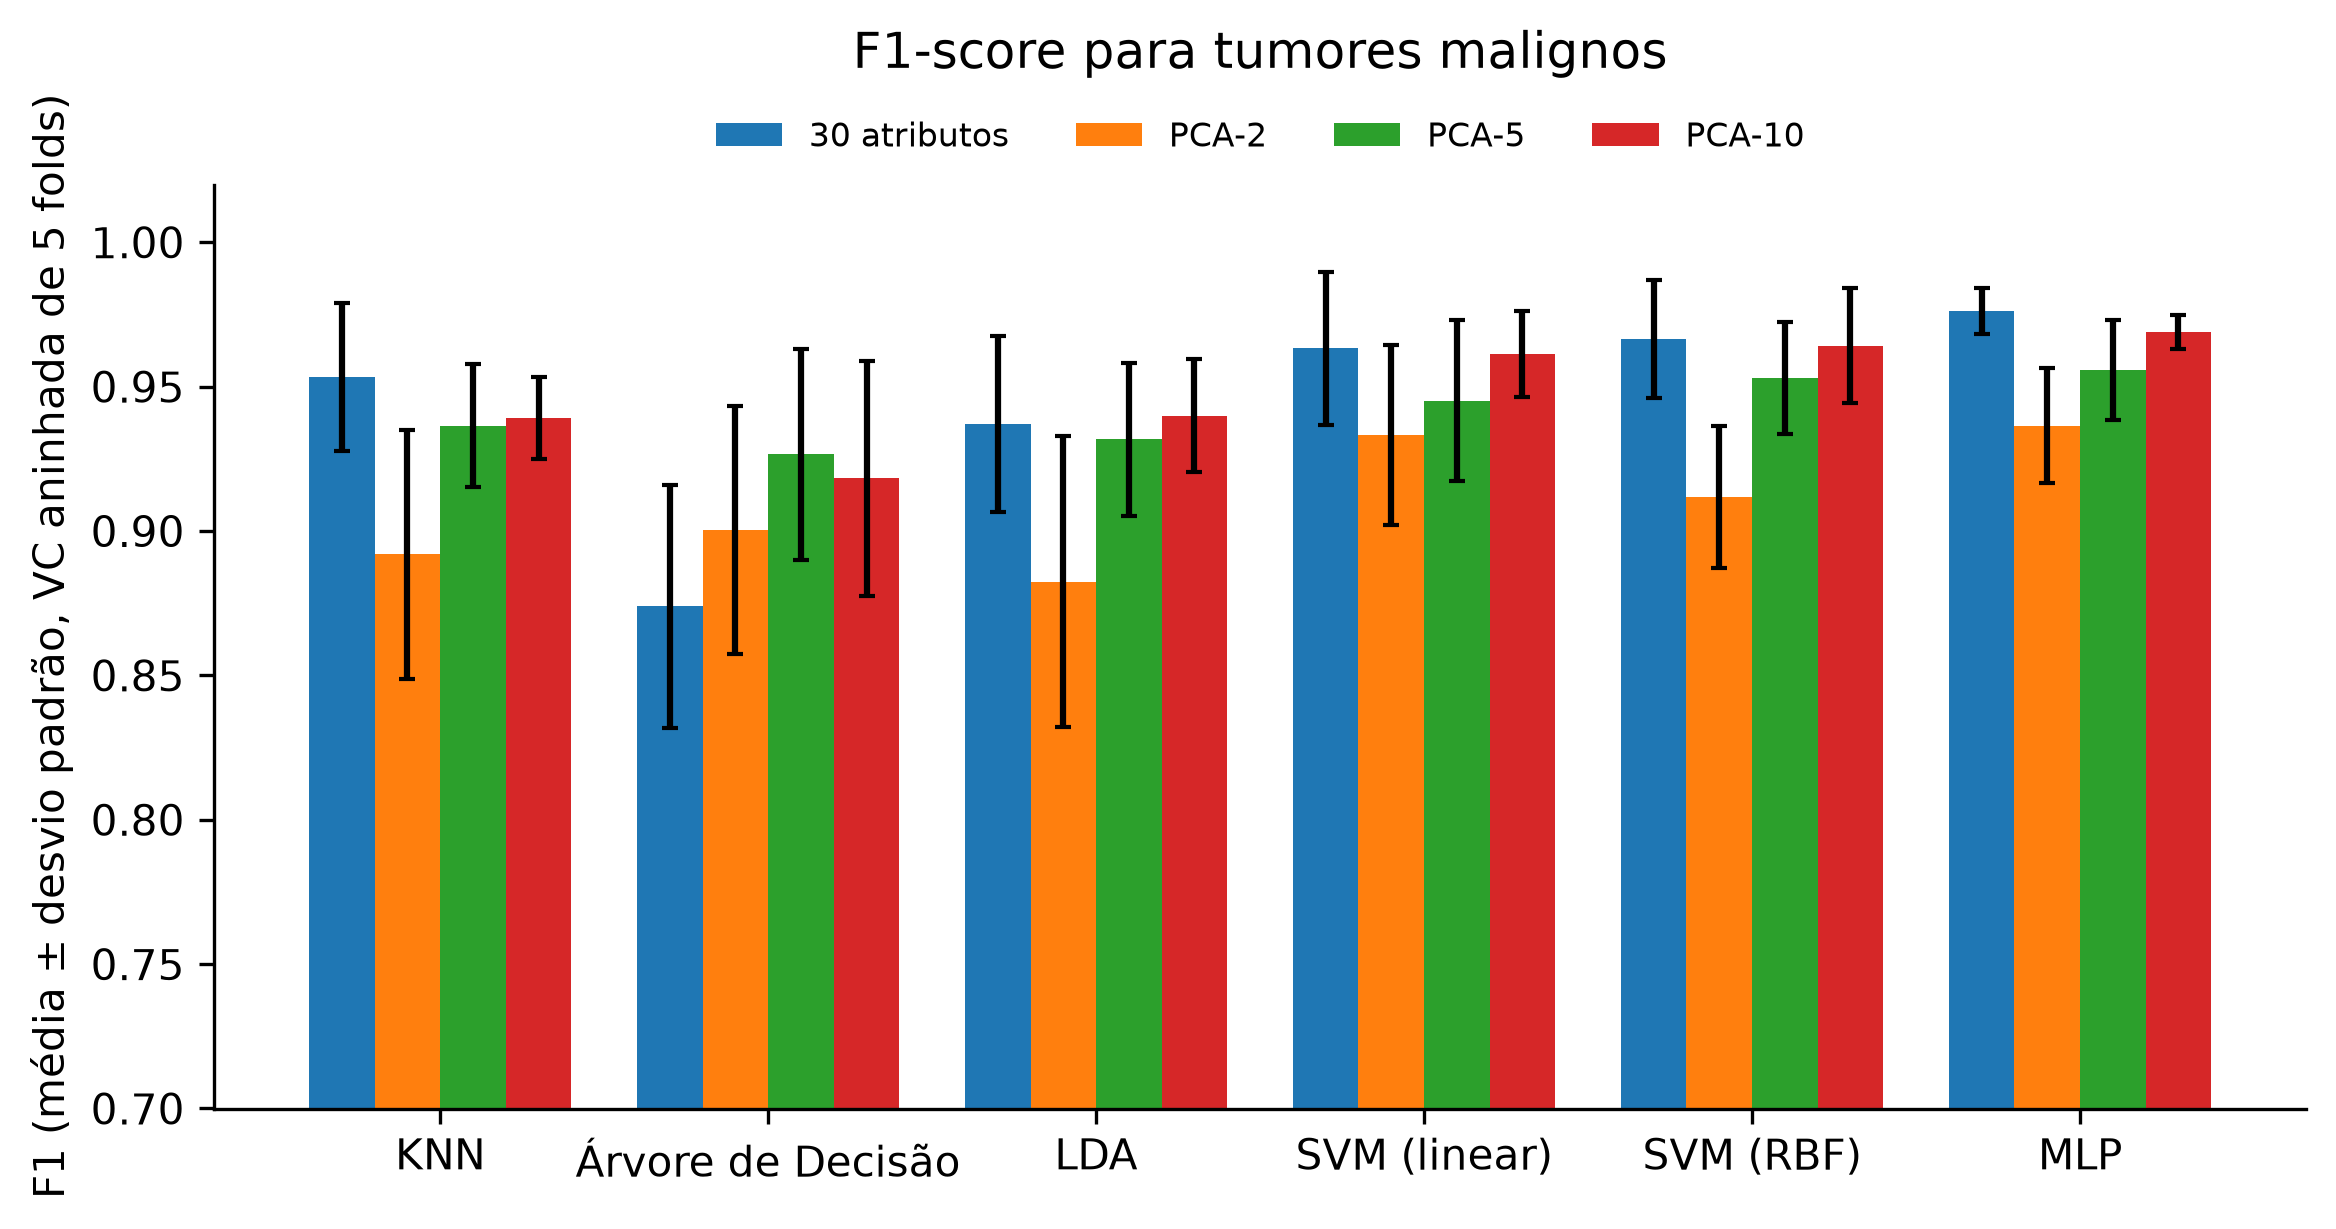
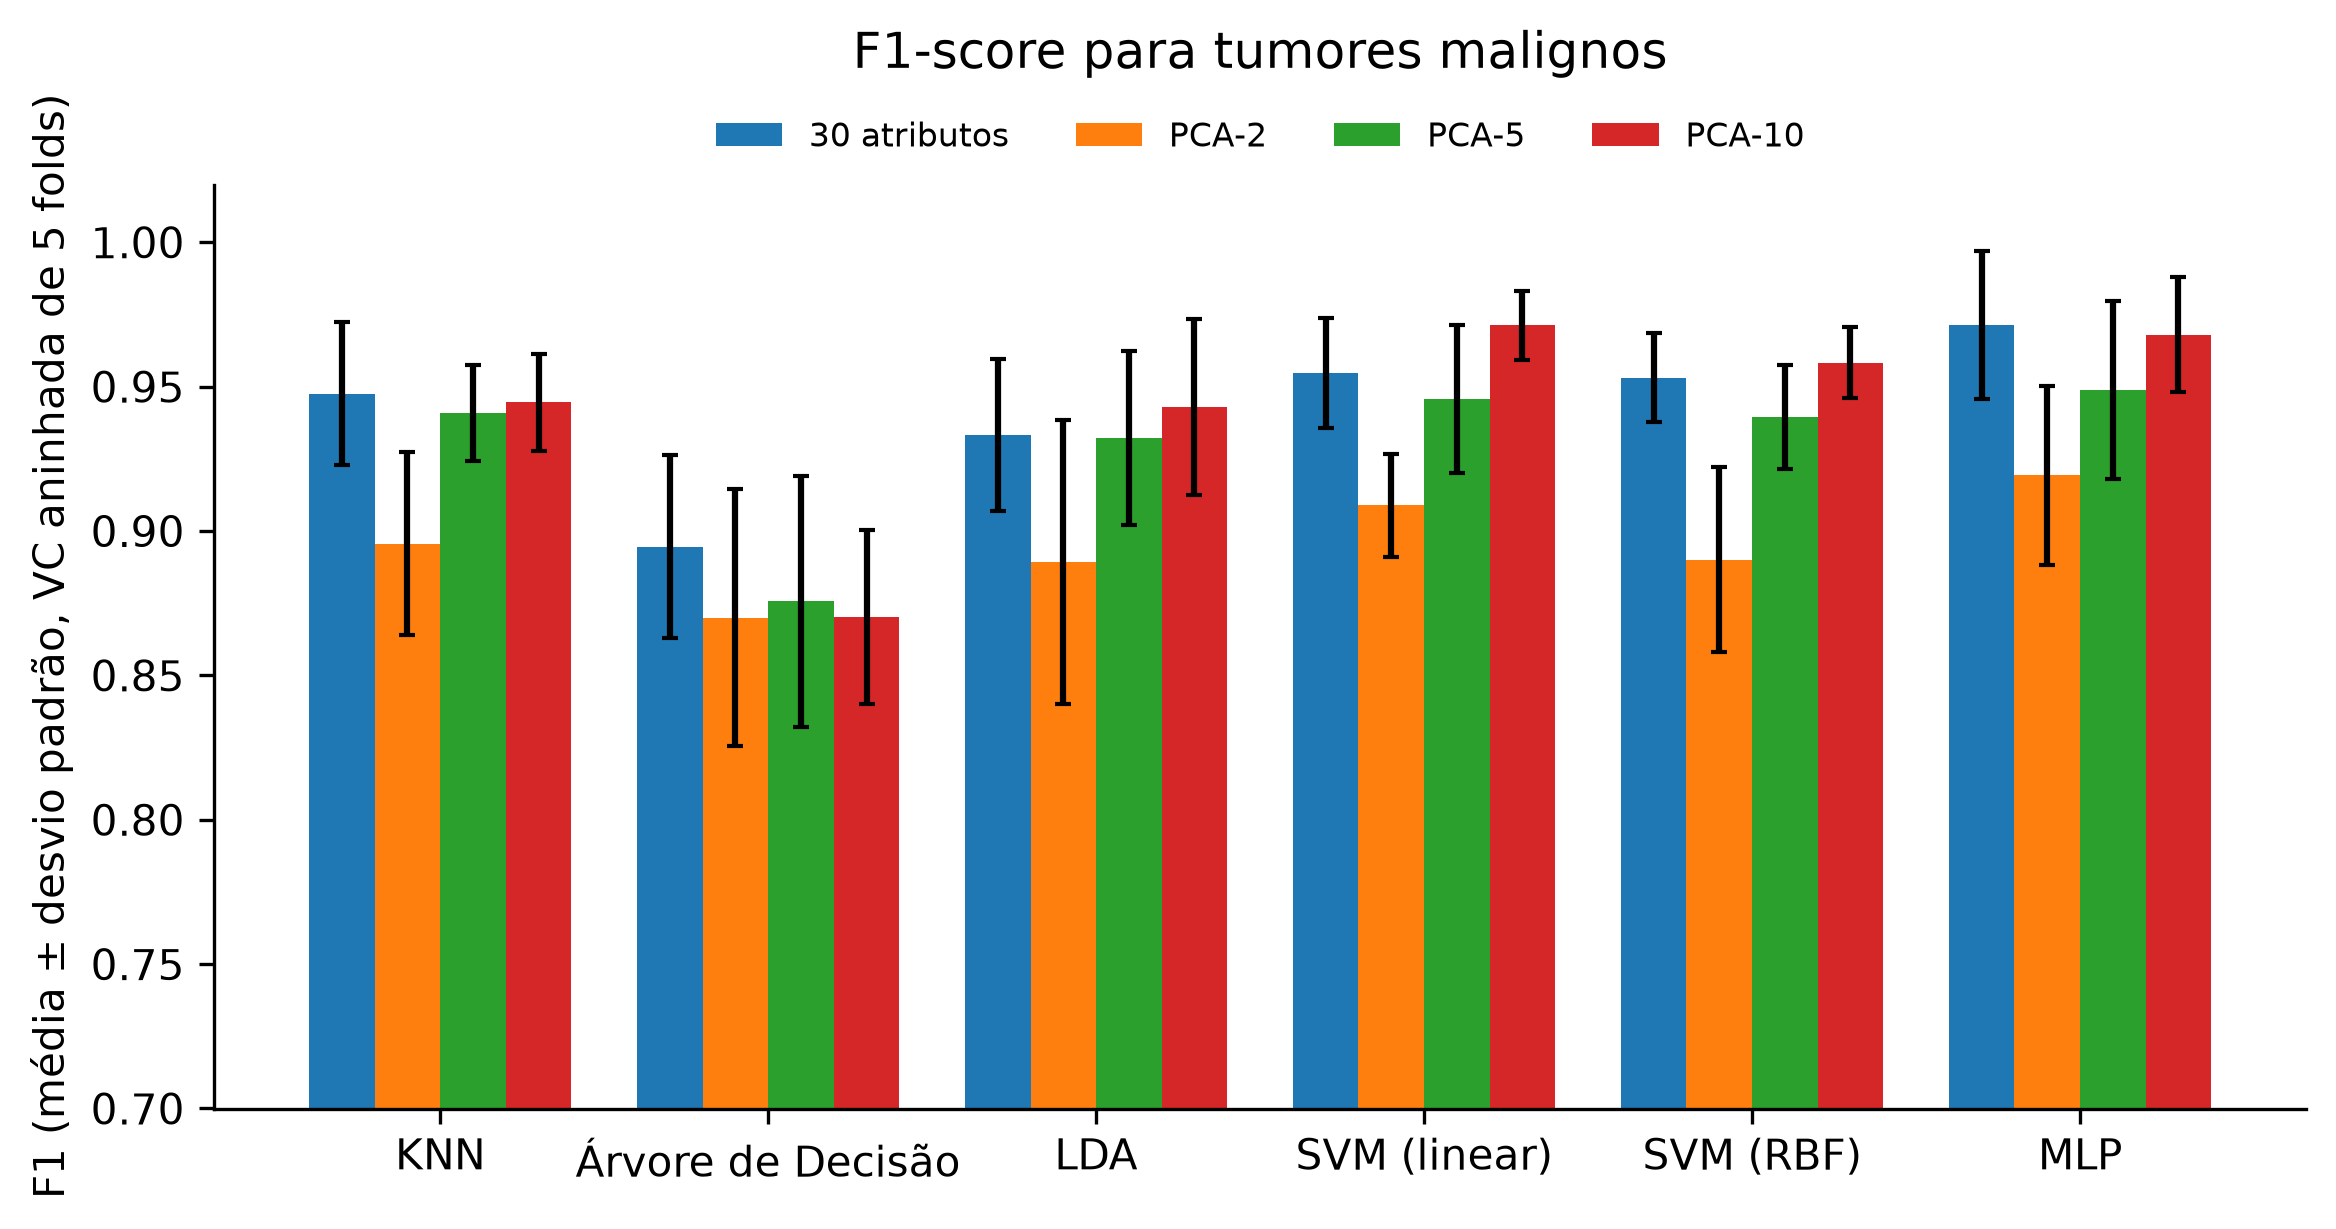
feat: update experiment results and summaries; add holdout selected metrics

diff --git a/run_experiments.py b/run_experiments.py
@@ -1,14 +1,21 @@
 """Run every experiment and save figures + tables.
 
+Protocol (the hold-out set is never used to choose anything):
+  1. Split the data once into train (75%) and test (25%), stratified.
+  2. Nested cross-validation on the TRAIN split only, for all 24 configurations
+     (6 models x 4 input settings). Hyperparameters are tuned in the inner loop.
+  3. Select the best configuration from the nested-CV results (train only).
+  4. Evaluate on the untouched hold-out set: first for the selected
+     configuration, plus ROC curves and decision regions for illustration.
+
 Usage:
-    python run_experiments.py            # full run (nested CV, a few minutes)
+    python run_experiments.py            # full run (a few minutes)
     python run_experiments.py --quick    # fewer folds, for a fast smoke test
 """
 import argparse
 import json
 
 from bcw import config, data, evaluate, plots
-from bcw.models import model_specs
 
 
 def main(quick=False):
@@ -16,51 +23,63 @@ def main(quick=False):
         config.OUTER_FOLDS, config.INNER_FOLDS = 3, 2
     config.RESULTS_DIR.mkdir(parents=True, exist_ok=True)
 
-    # 1. Data and exploratory analysis ------------------------------------
+    # 1. Data, single train/test split and descriptive plots ---------------
     X, y = data.load_data()
     info = data.describe(X, y)
+    X_train, X_test, y_train, y_test = data.split(X, y)
+    info["n_train"], info["n_test"] = int(len(y_train)), int(len(y_test))
+    info["n_test_malignant"] = int(y_test.sum())
     print("Dataset:", info)
+
+    # Descriptive plots use the full dataset: they describe the data and are
+    # not used for any model or hyperparameter choice.
     plots.class_balance(y)
     plots.correlation_heatmap(X)
     info["pca_components_for_95pct_variance"] = plots.pca_variance(X)
     plots.pca_scatter(X, y)
 
-    # 2. Nested CV: the main quantitative result --------------------------
-    cv_results = evaluate.nested_cv(X, y)
+    # 2. Nested CV on the TRAIN split only ---------------------------------
+    cv_results = evaluate.nested_cv(X_train, y_train)
     cv_results.to_csv(config.RESULTS_DIR / "nested_cv_results.csv", index=False)
-    plots.metric_bars(cv_results, "f1", "05_f1_by_model_and_pca",
-                      "F1-score for malignant tumours")
-    plots.metric_bars(cv_results, "recall", "06_recall_by_model_and_pca",
-                      "Recall for malignant tumours (missed tumours are the costly error)")
+    plots.metric_bars(cv_results, "f1", "05_f1_by_model_and_pca")
+    plots.metric_bars(cv_results, "recall", "06_recall_by_model_and_pca")
 
-    # 3. Hold-out evaluation for ROC, confusion matrix and error analysis --
-    X_train, X_test, y_train, y_test = data.split(X, y)
-    _, holdout_metrics, details = evaluate.holdout(X_train, X_test, y_train, y_test)
+    # 3. Select the best configuration using CV results only ---------------
+    best = evaluate.best_configuration(cv_results)
+    n_comp = None if best["n_components"] != best["n_components"] else int(best["n_components"])
+    info["selected_by_nested_cv_on_train"] = {
+        "model": best["model"], "features": best["features"],
+        "f1": round(float(best["f1_mean"]), 4),
+        "recall": round(float(best["recall_mean"]), 4)}
+    print("\nSelected configuration:", info["selected_by_nested_cv_on_train"])
+
+    # 4. Hold-out evaluation ------------------------------------------------
+    # 4a. All models with the 30 original features (ROC curves, comparison)
+    fitted_all, holdout_metrics, details = evaluate.holdout(X_train, X_test, y_train, y_test)
     holdout_metrics.to_csv(config.RESULTS_DIR / "holdout_metrics.csv", index=False)
     plots.roc_curves(y_test, details)
 
-    best = evaluate.best_configuration(cv_results)
-    info["best_by_nested_cv"] = {"model": best["model"], "features": best["features"],
-                                 "f1": round(best["f1_mean"], 4),
-                                 "recall": round(best["recall_mean"], 4)}
-    print("\nBest configuration:", info["best_by_nested_cv"])
-
-    # Confusion matrix and errors of the best model, with its own PCA setting
-    n_comp = None if best["n_components"] != best["n_components"] else int(best["n_components"])
-    fitted_best, _, details_best = evaluate.holdout(
-        X_train, X_test, y_train, y_test, n_components=n_comp)
-    plots.confusion_matrix_plot(details_best[best["model"]]["confusion"],
+    # 4b. The selected configuration (confusion matrix and error analysis)
+    if n_comp is None:
+        fitted_sel, metrics_sel, details_sel = fitted_all, holdout_metrics, details
+    else:
+        fitted_sel, metrics_sel, details_sel = evaluate.holdout(
+            X_train, X_test, y_train, y_test, n_components=n_comp)
+    selected = metrics_sel[metrics_sel["model"] == best["model"]].copy()
+    selected.insert(1, "features", best["features"])
+    selected.to_csv(config.RESULTS_DIR / "holdout_selected.csv", index=False)
+    plots.confusion_matrix_plot(details_sel[best["model"]]["confusion"],
                                 f"{best['model']} / {best['features']}")
-    wrong = evaluate.misclassified(X_test, y_test, details_best[best["model"]]["y_pred"])
+    wrong = evaluate.misclassified(X_test, y_test, details_sel[best["model"]]["y_pred"])
     wrong.to_csv(config.RESULTS_DIR / "misclassified_samples.csv")
-    print(f"{len(wrong)} test samples misclassified by the best model")
+    print(f"{len(wrong)} test samples misclassified by the selected configuration")
 
-    # 4. Decision regions in the PCA-2D plane ------------------------------
+    # 4c. Decision regions in the PCA-2D plane (illustration only)
     fitted_2d, _, _ = evaluate.holdout(X_train, X_test, y_train, y_test, n_components=2)
     plots.decision_boundaries(fitted_2d, X_test, y_test)
 
     # 5. Save the summary used to write the article ------------------------
-    info["best_params_holdout"] = {n: str(f.best_params_) for n, f in fitted_best.items()}
+    info["best_params_selected"] = str(fitted_sel[best["model"]].best_params_)
     with open(config.RESULTS_DIR / "summary.json", "w") as f:
         json.dump(info, f, indent=2, default=str)
     print("\nDone. Figures in ./figures, tables in ./results")
